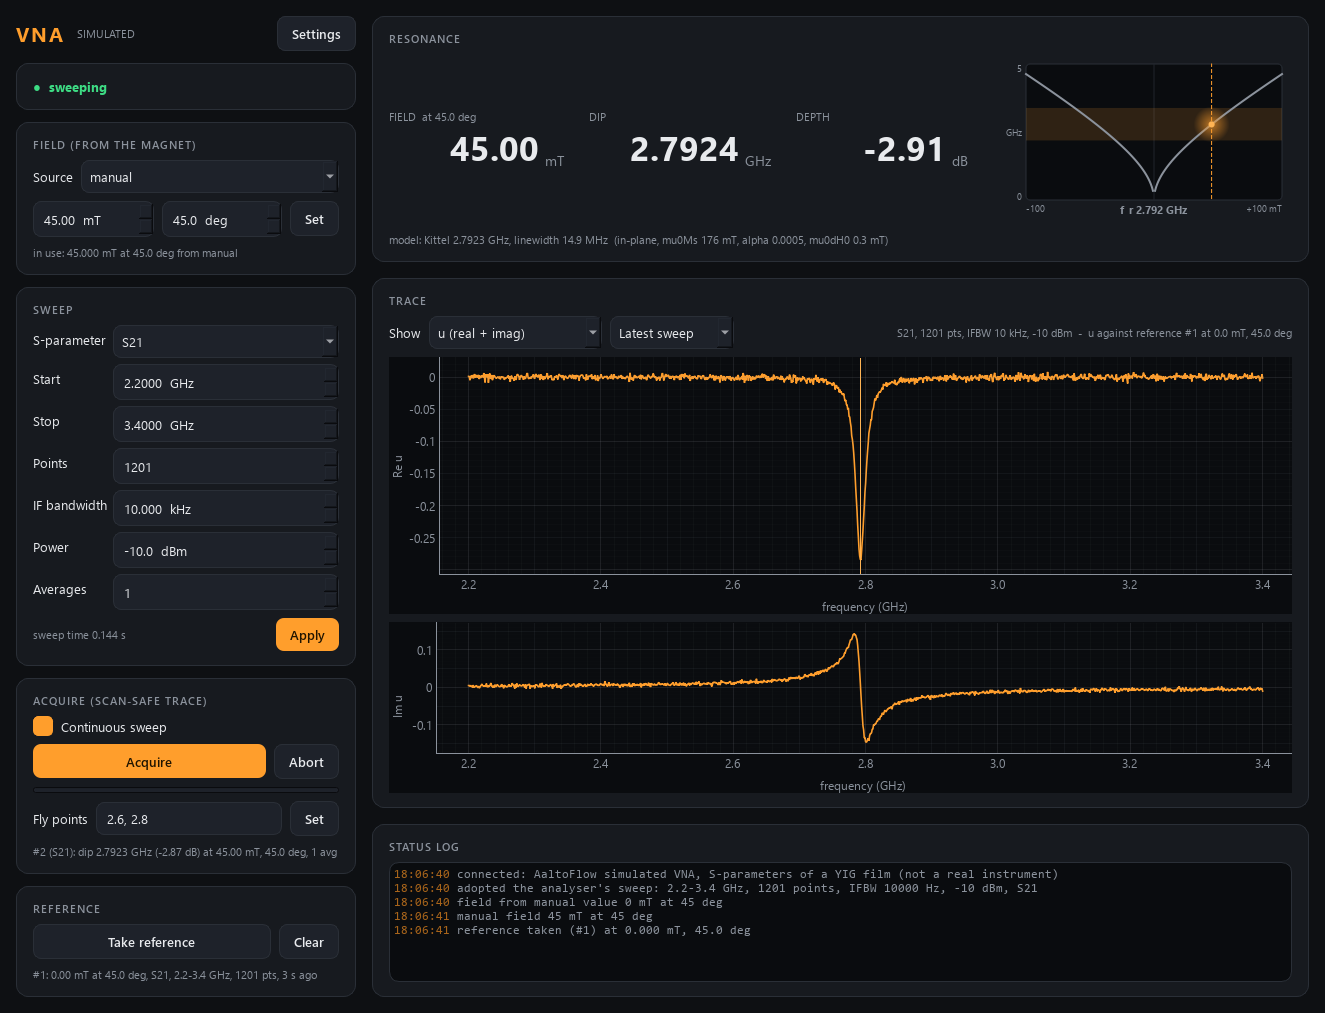
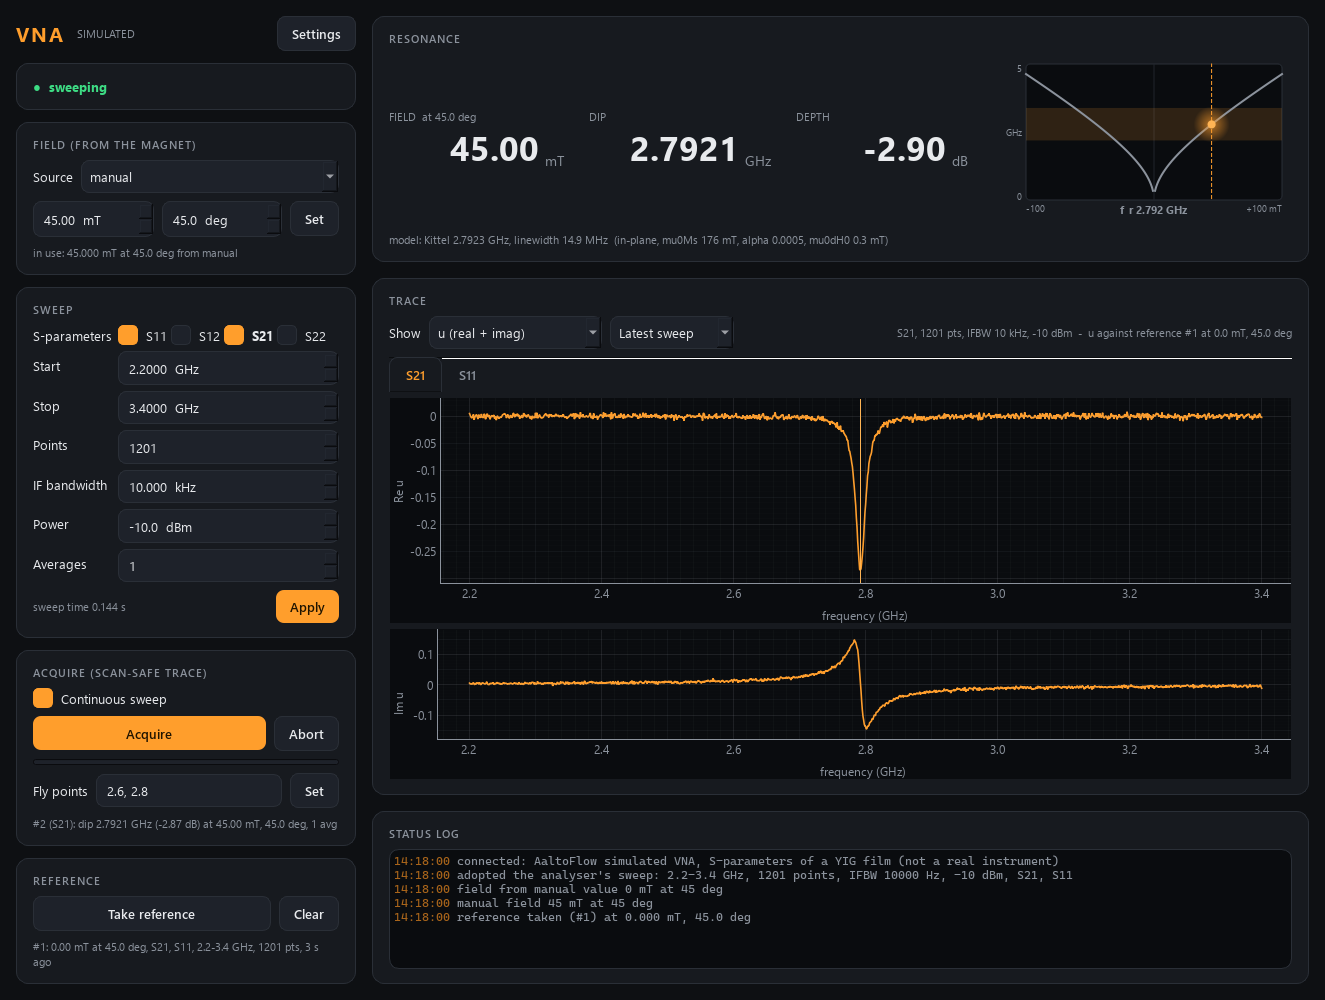
vna GUI: S-parameter checklist, one plot tab per parameter
Lukas did not like choosing the extra parameters by hand: the SWEEP card
now has a tick box per S-parameter (replacing the drop-down). Every ticked
one is measured in the same sweep (sweep.extra_sparams) and gets its own
tab of plots in the TRACE card; with one ticked there is no tab bar and
the window looks as before. The bold box is the primary (scan detectors
s, u, ln_ratio); unticking it promotes the first ticked one; the last one
cannot be unticked. Only the visible tab is fetched. The plot-selector
drop-down from the previous commit is gone. Front panel re-rendered (both
themes checked) with S21 + S11 ticked.

diff --git a/modules/detector/vna-control/src/vna/apps/gui.py b/modules/detector/vna-control/src/vna/apps/gui.py
@@ -208,6 +208,48 @@ class KittelIndicator(QtWidgets.QWidget):
         p.end()
 
 
+# ------------------------------------------------------------- plot tab
+
+def _make_plot(name, unit):
+    import pyqtgraph as pg
+    pg.setConfigOptions(antialias=True)
+    w = pg.PlotWidget(background=COLORS["code_bg"])
+    w.setMinimumHeight(120)
+    pen = pg.mkPen(COLORS["muted"])
+    for axis in ("left", "bottom"):
+        ax = w.getAxis(axis); ax.setPen(pen); ax.setTextPen(pen)
+        ax.enableAutoSIPrefix(False)
+    w.setLabel("left", name, units=unit)
+    w.setLabel("bottom", "frequency", units="GHz")
+    w.showGrid(x=True, y=True, alpha=0.15)
+    curve = w.plot([], [], pen=pg.mkPen(COLORS["accent"], width=1.6))
+    return w, curve
+
+
+class _PlotTab(QtWidgets.QWidget):
+    """The plots of ONE S-parameter: magnitude (or Re) over phase (or Im),
+    x-linked, with the dip and the model resonance marked."""
+
+    def __init__(self, sparam: str):
+        super().__init__()
+        import pyqtgraph as pg
+        self.sparam = sparam
+        self.plot_mode = None
+        lay = QtWidgets.QVBoxLayout(self)
+        lay.setContentsMargins(0, 6, 0, 0); lay.setSpacing(6)
+        self.mag_plot, self.mag_curve = _make_plot(f"|{sparam}|", "dB")
+        self.phase_plot, self.phase_curve = _make_plot("phase", "deg")
+        self.phase_plot.setXLink(self.mag_plot)
+        self.dip_line = pg.InfiniteLine(angle=90, movable=False,
+                                        pen=pg.mkPen(COLORS["accent_hi"], width=1))
+        self.model_line = pg.InfiniteLine(angle=90, movable=False,
+                                          pen=pg.mkPen(COLORS["muted"], width=1,
+                                                       style=QtCore.Qt.DashLine))
+        self.mag_plot.addItem(self.model_line); self.mag_plot.addItem(self.dip_line)
+        lay.addWidget(self.mag_plot, 3)
+        lay.addWidget(self.phase_plot, 2)
+
+
 # ------------------------------------------------------------- main window
 
 class MainWindow(QtWidgets.QMainWindow):
@@ -226,7 +268,6 @@ class MainWindow(QtWidgets.QMainWindow):
         self._last_acq = 0
         self._ref_id = None              # reference acq_id the trace was fetched against
         self._u_error = ""               # why u could not be shown, if it could not
-        self._plot_mode = None
 
         root = QtWidgets.QWidget(); root.setObjectName("root")
         outer = QtWidgets.QHBoxLayout(root)
@@ -322,17 +363,28 @@ class MainWindow(QtWidgets.QMainWindow):
         scard, slay = _card("Sweep")
         form = QtWidgets.QFormLayout(); form.setSpacing(6)
         lim = self.cfg.limits
-        self.sparam_combo = QtWidgets.QComboBox(); self.sparam_combo.addItems(list(model.SPARAMS))
-        # applies at once (like the source): it is a choice, not a number being typed
-        self.sparam_combo.activated.connect(lambda _i: self._call(
-            self.ctrl.set_sparam, self.sparam_combo.currentText()))
+        # The S-parameters as a CHECKLIST (Lukas, 2026-11-10): tick several and
+        # one sweep measures them all (sweep.extra_sparams), each getting its
+        # own tab of plots on the right. Applies at once, like the source: a
+        # choice, not a number being typed. `.clicked` = user clicks only, so a
+        # status update cannot echo back (gotcha #13).
+        sp_row = QtWidgets.QWidget()
+        sp_lay = QtWidgets.QHBoxLayout(sp_row)
+        sp_lay.setContentsMargins(0, 0, 0, 0); sp_lay.setSpacing(4)
+        self.sp_checks = {}
+        for sp in model.SPARAMS:
+            box = QtWidgets.QCheckBox(sp)
+            box.clicked.connect(lambda _on, sp=sp: self._on_sparam_clicked(sp))
+            sp_lay.addWidget(box)
+            self.sp_checks[sp] = box
+        sp_lay.addStretch(1)
         self.start_spin = self._dspin(lim.freq_min_Hz / 1e9, lim.freq_max_Hz / 1e9, 4, "  GHz", 0.1)
         self.stop_spin = self._dspin(lim.freq_min_Hz / 1e9, lim.freq_max_Hz / 1e9, 4, "  GHz", 0.1)
         self.points_spin = QtWidgets.QSpinBox(); self.points_spin.setRange(lim.points_min, lim.points_max)
         self.ifbw_spin = self._dspin(lim.ifbw_min_Hz / 1e3, lim.ifbw_max_Hz / 1e3, 3, "  kHz", 1.0)
         self.power_spin = self._dspin(lim.power_min_dBm, lim.power_max_dBm, 1, "  dBm", 1.0)
         self.avg_spin = QtWidgets.QSpinBox(); self.avg_spin.setRange(lim.averages_min, lim.averages_max)
-        for label, w in (("S-parameter", self.sparam_combo),
+        for label, w in (("S-parameters", sp_row),
                          ("Start", self.start_spin), ("Stop", self.stop_spin),
                          ("Points", self.points_spin), ("IF bandwidth", self.ifbw_spin),
                          ("Power", self.power_spin), ("Averages", self.avg_spin)):
@@ -472,30 +524,20 @@ class MainWindow(QtWidgets.QMainWindow):
         self.which_combo.addItems(["Latest sweep", "Last acquisition"])
         self.which_combo.currentIndexChanged.connect(lambda _i: self._force_fetch())
         bar.addWidget(self.which_combo)
-        # which S-parameter to plot when one sweep returns several
-        # (sweep.extra_sparams); hidden while there is only the one
-        self.sp_combo = QtWidgets.QComboBox()
-        self.sp_combo.setToolTip("Every S-parameter here comes from the SAME sweep "
-                                 "(Settings > sweep > extra_sparams)")
-        self.sp_combo.currentIndexChanged.connect(lambda _i: self._force_fetch())
-        self.sp_combo.setVisible(False)
-        bar.addWidget(self.sp_combo)
         bar.addStretch(1)
         self.trace_label = QtWidgets.QLabel(""); self.trace_label.setObjectName("hint")
         bar.addWidget(self.trace_label)
         tlay.addLayout(bar)
-        self.mag_plot, self.mag_curve = self._make_plot("|S21|", "dB")
-        self.phase_plot, self.phase_curve = self._make_plot("phase", "deg")
-        self.phase_plot.setXLink(self.mag_plot)
-        import pyqtgraph as pg
-        self.dip_line = pg.InfiniteLine(angle=90, movable=False,
-                                        pen=pg.mkPen(COLORS["accent_hi"], width=1))
-        self.model_line = pg.InfiniteLine(angle=90, movable=False,
-                                          pen=pg.mkPen(COLORS["muted"], width=1,
-                                                       style=QtCore.Qt.DashLine))
-        self.mag_plot.addItem(self.model_line); self.mag_plot.addItem(self.dip_line)
-        tlay.addWidget(self.mag_plot, 3)
-        tlay.addWidget(self.phase_plot, 2)
+        # One tab of plots per measured S-parameter, all from the same sweep.
+        # With one parameter the tab bar is hidden and it looks as it always
+        # did. Only the VISIBLE tab is fetched (a remote GUI must not pull four
+        # traces seven times a second), so switching tabs fetches at once.
+        self.plot_tabs = QtWidgets.QTabWidget()
+        self.plot_tabs.setDocumentMode(True)
+        self.plot_tabs.currentChanged.connect(lambda _i: self._force_fetch())
+        self._tabs: dict = {}
+        self._ensure_tabs([self.cfg.sweep.sparam])
+        tlay.addWidget(self.plot_tabs, 1)
         colw.addWidget(tcard, 1)
 
         lcard, llay = _card("Status log")
@@ -506,20 +548,43 @@ class MainWindow(QtWidgets.QMainWindow):
         colw.addWidget(lcard, 0)
         return panel
 
-    def _make_plot(self, name, unit):
-        import pyqtgraph as pg
-        pg.setConfigOptions(antialias=True)
-        w = pg.PlotWidget(background=COLORS["code_bg"])
-        w.setMinimumHeight(120)
-        pen = pg.mkPen(COLORS["muted"])
-        for axis in ("left", "bottom"):
-            ax = w.getAxis(axis); ax.setPen(pen); ax.setTextPen(pen)
-            ax.enableAutoSIPrefix(False)
-        w.setLabel("left", name, units=unit)
-        w.setLabel("bottom", "frequency", units="GHz")
-        w.showGrid(x=True, y=True, alpha=0.15)
-        curve = w.plot([], [], pen=pg.mkPen(COLORS["accent"], width=1.6))
-        return w, curve
+    def _ensure_tabs(self, sparams) -> None:
+        """One _PlotTab per S-parameter, in the order the sweep returns them
+        (the primary first). Tabs that stay are kept with their plots."""
+        sparams = list(sparams)
+        if sparams == list(self._tabs):
+            return
+        keep = self._current_sp()
+        self.plot_tabs.blockSignals(True)
+        while self.plot_tabs.count():
+            self.plot_tabs.removeTab(0)
+        tabs = {}
+        for sp in sparams:
+            tabs[sp] = self._tabs.pop(sp, None) or _PlotTab(sp)
+            self.plot_tabs.addTab(tabs[sp], sp)
+        for old in self._tabs.values():
+            old.deleteLater()
+        self._tabs = tabs
+        if keep in tabs:
+            self.plot_tabs.setCurrentWidget(tabs[keep])
+        self.plot_tabs.blockSignals(False)
+        self.plot_tabs.tabBar().setVisible(len(tabs) > 1)
+        self._force_fetch()
+
+    def _current_sp(self):
+        w = self.plot_tabs.currentWidget() if hasattr(self, "plot_tabs") else None
+        return getattr(w, "sparam", None)
+
+    def _tab(self) -> "_PlotTab":
+        return self.plot_tabs.currentWidget()
+
+    # the plots of the VISIBLE tab, under the names they always had
+    mag_plot = property(lambda self: self._tab().mag_plot)
+    phase_plot = property(lambda self: self._tab().phase_plot)
+    mag_curve = property(lambda self: self._tab().mag_curve)
+    phase_curve = property(lambda self: self._tab().phase_curve)
+    dip_line = property(lambda self: self._tab().dip_line)
+    model_line = property(lambda self: self._tab().model_line)
 
     # ---- actions ---------------------------------------------------------
 
@@ -534,6 +599,45 @@ class MainWindow(QtWidgets.QMainWindow):
             self._on_event("error", str(exc))
         except Exception as exc:
             self._on_event("warn", f"refused: {exc}")
+
+    def _on_sparam_clicked(self, sp: str):
+        """Tick / untick one S-parameter. The PRIMARY (the scan detectors s, u,
+        ln_ratio) stays what it is while it is ticked; unticking it promotes
+        the first ticked one. At least one stays ticked."""
+        s = self.ctrl.status()
+        primary = s.sparam
+        ticked = [x for x in model.SPARAMS if self.sp_checks[x].isChecked()]
+        if not ticked:
+            self.sp_checks[sp].setChecked(True)          # one is always measured
+            self._on_event("warn", "at least one S-parameter is measured")
+            return
+        if primary not in ticked:
+            primary = ticked[0]
+            self._call(self.ctrl.set_sparam, primary)
+        extras = ",".join(x for x in ticked if x != primary)
+        self._call(self.ctrl.set_extra_sparams, extras)
+        self._sync_sparams()
+
+    def _sync_sparams(self):
+        """The checklist and the plot tabs follow what the analyser measures
+        (also when a console or a scan changed it)."""
+        s = self.ctrl.status()
+        sps = [str(x) for x in (getattr(s, "sparams", None) or [s.sparam])]
+        for sp, box in self.sp_checks.items():
+            box.blockSignals(True)
+            box.setChecked(sp in sps)
+            box.blockSignals(False)
+            primary = sp == s.sparam
+            f = box.font()
+            if f.bold() != primary:
+                f.setBold(primary); box.setFont(f)
+            box.setToolTip(
+                f"{sp}: the PRIMARY S-parameter -- the scan detectors s, u, ln_ratio"
+                if primary else
+                f"{sp}: tick to measure it in the SAME sweep (detectors "
+                f"s_{sp.lower()}, u_{sp.lower()}, ln_ratio_{sp.lower()}); "
+                f"it gets its own tab on the right")
+        self._ensure_tabs(sps)
 
     def _apply_sweep(self):
         """Send only what changed: every sweep change restarts an acquisition
@@ -633,8 +737,8 @@ class MainWindow(QtWidgets.QMainWindow):
                     spin.setValue(int(val))
         finally:
             self._syncing = False
-        for combo, text in ((self.source_combo, s.field_source_set),
-                            (self.sparam_combo, s.sparam)):
+        self._sync_sparams()
+        for combo, text in ((self.source_combo, s.field_source_set),):
             if force or not combo.view().isVisible():
                 i = combo.findText(text)
                 if i >= 0:
@@ -778,19 +882,6 @@ class MainWindow(QtWidgets.QMainWindow):
             if self.view_combo.currentIndex() != 0:
                 self._force_fetch()
 
-        # the S-parameters each sweep returns: the plot's choice follows them
-        sps = [str(x) for x in (getattr(s, "sparams", None) or [s.sparam])]
-        if sps != [self.sp_combo.itemText(i) for i in range(self.sp_combo.count())]:
-            keep = self.sp_combo.currentText()
-            self.sp_combo.blockSignals(True)
-            self.sp_combo.clear()
-            self.sp_combo.addItems(sps)
-            if keep in sps:
-                self.sp_combo.setCurrentIndex(sps.index(keep))
-            self.sp_combo.blockSignals(False)
-            self.sp_combo.setVisible(len(sps) > 1)
-            self._force_fetch()
-
         # trace: fetch only when there is a new one, and not more than ~7 per second
         which = "last" if self.which_combo.currentIndex() == 0 else "sample"
         new = s.trace_id != self._trace_id if which == "last" else self._trace_id == -1
@@ -808,8 +899,8 @@ class MainWindow(QtWidgets.QMainWindow):
         the other two. If u is refused (no reference, or it does not match),
         show the raw trace and say why instead of an empty plot."""
         self._u_error = ""
-        # None = the primary (also while the list has only the one)
-        sp = self.sp_combo.currentText() if self.sp_combo.count() > 1 else None
+        # the visible tab's S-parameter (with one tab: the primary)
+        sp = self._current_sp() if len(self._tabs) > 1 else None
         if self.view_combo.currentIndex() == 0:
             return self.ctrl.get_trace(which, "s", sp)
         # The last view wants the logarithm; the middle two are built from u.
@@ -821,9 +912,10 @@ class MainWindow(QtWidgets.QMainWindow):
             return self.ctrl.get_trace(which, "s", sp)
 
     def _set_plot_mode(self, mode: str, sparam: str):
-        if (mode, sparam) == self._plot_mode:
+        tab = self._tab()
+        if (mode, sparam) == tab.plot_mode:
             return
-        self._plot_mode = (mode, sparam)
+        tab.plot_mode = (mode, sparam)
         if mode == "u":
             self.mag_plot.setLabel("left", "Re u", units="")
             self.phase_plot.setLabel("left", "Im u", units="")
@@ -844,6 +936,8 @@ class MainWindow(QtWidgets.QMainWindow):
         f = t["freqs_Hz"]
         fx = f / 1e9
         sp = t.get("sparam", "S21")
+        if len(self._tabs) > 1 and self._tabs.get(sp) is not self._tab():
+            return                       # fetched for a tab no longer shown
         view = self.view_combo.currentIndex()
         label = f"{sp}, {t['points']} pts, IFBW {t['ifbw_Hz'] / 1e3:g} kHz, {t['power_dBm']:g} dBm"
         if "ln" in t:

diff --git a/modules/detector/vna-control/tests/test_gui_smoke.py b/modules/detector/vna-control/tests/test_gui_smoke.py
@@ -92,10 +92,11 @@ def test_window_builds_sweeps_and_uses_the_brains_reference(app):
         assert vna.status().reference["present"] is False
         assert "RAW" in win.trace_label.text() and "reference" in win.trace_label.text()
 
-        # the S-parameter selector applies at once
-        win.sparam_combo.setCurrentIndex(win.sparam_combo.findText("S12"))
-        win.sparam_combo.activated.emit(win.sparam_combo.currentIndex())
-        assert vna.status().sparam == "S12"
+        # the S-parameter checklist applies at once: tick S12, untick S21 ->
+        # S12 is the only one, so it is the primary
+        win.sp_checks["S12"].click()
+        win.sp_checks["S21"].click()
+        assert vna.status().sparam == "S12" and vna.status().sparams == ["S12"]
 
         # the sweep form sends only what changed
         win.points_spin.setValue(201)
@@ -216,9 +217,11 @@ def test_fly_points_box_sets_the_stream_points_in_ghz(app):
         win.close()
 
 
-def test_the_trace_card_offers_every_parameter_of_the_sweep(app):
-    """sweep.extra_sparams (2026-11-10): the plot can show any S-parameter
-    the sweep returned; the choice is hidden while there is only one."""
+def test_ticking_s_parameters_measures_them_together_one_tab_each(app):
+    """The checklist (Lukas, 2026-11-10): tick several S-parameters and ONE
+    sweep measures them all; each gets its own tab of plots. The primary (the
+    scan detectors s, u, ln_ratio) stays while it is ticked; with one
+    parameter there is no tab bar."""
     from vna.apps.gui import MainWindow
     cfg = Config()
     cfg.field.source = "manual"
@@ -228,15 +231,34 @@ def test_the_trace_card_offers_every_parameter_of_the_sweep(app):
     try:
         vna.step()
         _fresh(win)
-        assert not win.sp_combo.isVisibleTo(win)
-        vna.set_extra_sparams("S11")
+        tabs = win.plot_tabs
+        assert [x for x, b in win.sp_checks.items() if b.isChecked()] == ["S21"]
+        assert win.sp_checks["S21"].font().bold()
+        assert tabs.count() == 1 and not tabs.tabBar().isVisibleTo(win)
+
+        win.sp_checks["S11"].click()                    # tick S11
+        st = vna.status()
+        assert st.sparam == "S21" and st.sparams == ["S21", "S11"]
+        assert [tabs.tabText(i) for i in range(tabs.count())] == ["S21", "S11"]
+        assert tabs.tabBar().isVisibleTo(win)
+
         vna.step()
-        _fresh(win)
-        assert win.sp_combo.isVisibleTo(win)
-        assert [win.sp_combo.itemText(i) for i in range(win.sp_combo.count())] == ["S21", "S11"]
-        win.sp_combo.setCurrentIndex(1)
+        tabs.setCurrentIndex(1)                         # the S11 tab
         _fresh(win)
         assert win._trace["sparam"] == "S11"
-        np.testing.assert_array_equal(win._trace["s"], vna.get_trace("last", "s", "S11")["s"])
+        np.testing.assert_array_equal(win.mag_curve.getData()[1], 20 * np.log10(
+            np.abs(vna.get_trace("last", "s", "S11")["s"])))
+
+        win.sp_checks["S21"].click()                    # untick the primary
+        st = vna.status()
+        assert st.sparam == "S11" and st.sparams == ["S11"]
+        assert tabs.count() == 1 and win.sp_checks["S11"].font().bold()
+
+        win.sp_checks["S11"].click()                    # the last one stays ticked
+        assert win.sp_checks["S11"].isChecked() and vna.status().sparams == ["S11"]
+
+        vna.set_extra_sparams("S22")                    # changed elsewhere (console)
+        _fresh(win)
+        assert win.sp_checks["S22"].isChecked() and tabs.count() == 2
     finally:
         win.close()

diff --git a/tools/render_panels.py b/tools/render_panels.py
@@ -1516,6 +1516,8 @@ def _vna(theme):
     cfg.sweep.start_Hz, cfg.sweep.stop_Hz, cfg.sweep.points = 2.2e9, 3.4e9, 1201
     # two fly-scan stream points, so the "Fly points" box shows what it is for
     cfg.stream.points_Hz = "2.6e9, 2.8e9"
+    # S11 ticked too: one sweep, two parameters, a plot tab each
+    cfg.sweep.extra_sparams = "S11"
     vna, _ = build_sim_system(cfg, seed=5)
 
     def warm_up(win):

diff --git a/modules/detector/vna-control/README.md b/modules/detector/vna-control/README.md
@@ -179,7 +179,10 @@ one acquisition returns both:
   per parameter, `CALC1:TRAC<i>:DATA:SDAT?`); the PNA and LibreVNA / PNB-60
   backends refuse it for now. Fly scans stream the primary only, and refuse a
   list that needs both directions.
-- GUI: the TRACE card gets a selector for which parameter to plot. Console
+- GUI: the SWEEP card has a tick box per S-parameter; every ticked one is
+  measured in the same sweep and gets its own tab of plots in the TRACE card.
+  The bold one is the primary (`s`, `u`, `ln_ratio`); unticking it makes the
+  first ticked one the primary. Console
   `marker <GHz>` prints every measured parameter at one frequency in dB and
   degrees, to compare with the analyser's own markers.
 
